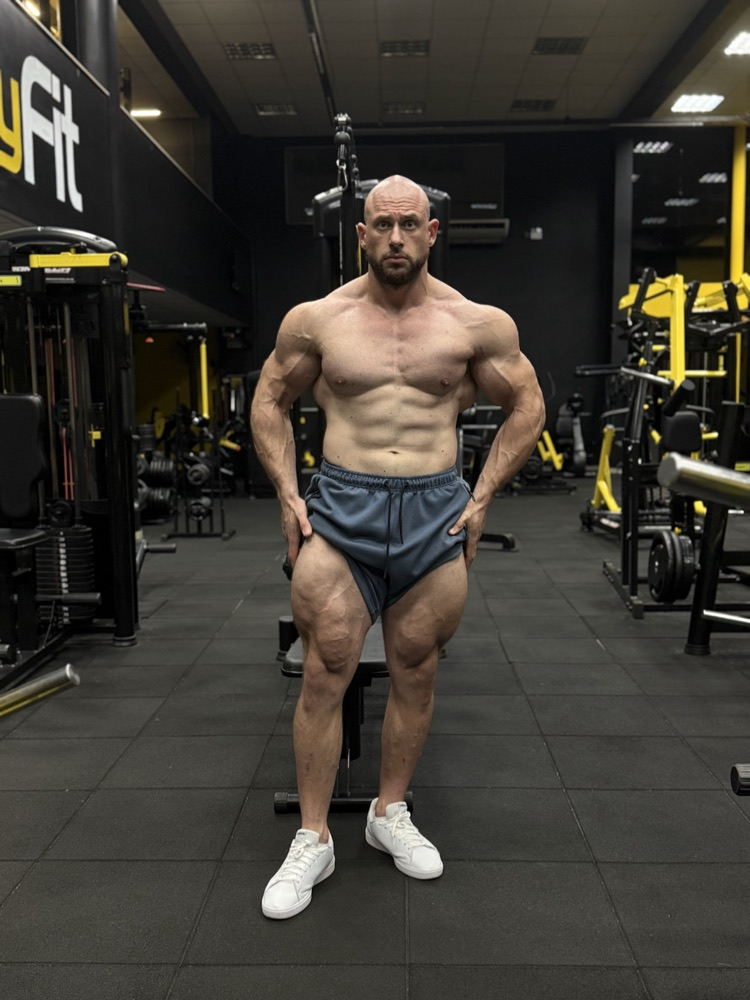
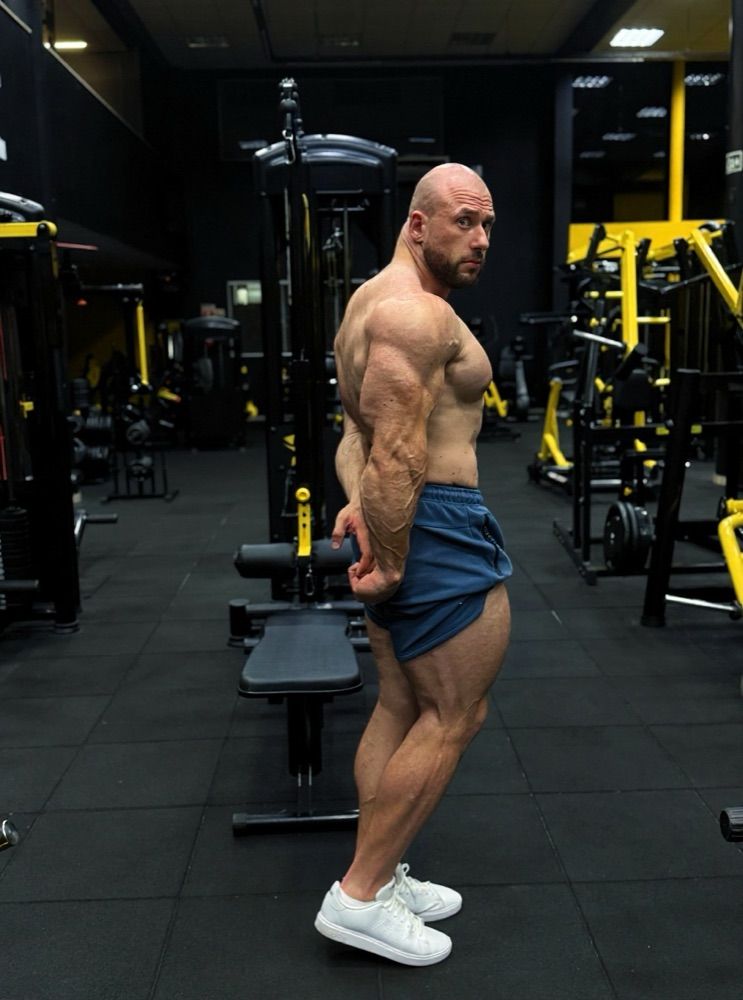
Hero: foto trocada pela pose de tríceps (escolha do GH) e empurrada pro canto
GH estava atrás da escrita 'GH' e pediu a foto da pose de tríceps (XLSQa em
alta). Caixa da foto estreitada pra 34% no canto direito: rosto livre do
título, fade pra esquerda, opacity .62.

SW v326 -> v327.

diff --git a/index.html b/index.html
@@ -68,13 +68,13 @@
      cantos com o fundo escuro e o texto fica por cima. Trocar a foto = substituir
      assets/gh-hero.jpg (mesmo nome) + bump do SW. */
   .app-header .gh-hero-foto {
-    position: absolute; top: 0; bottom: 0; right: 0; width: 62%;
+    position: absolute; top: 0; bottom: 0; right: 0; width: 34%;
     overflow: hidden; pointer-events: none;
-    background: url('assets/gh-hero.jpg') no-repeat center 22% / cover;
-    opacity: .60;
-    filter: brightness(1.22) contrast(1.04);
-    -webkit-mask-image: linear-gradient(90deg, transparent 0%, rgba(0,0,0,.85) 42%, #000 68%, rgba(0,0,0,.55) 100%);
-    mask-image: linear-gradient(90deg, transparent 0%, rgba(0,0,0,.85) 42%, #000 68%, rgba(0,0,0,.55) 100%);
+    background: url('assets/gh-hero.jpg') no-repeat center 12% / cover;
+    opacity: .62;
+    filter: brightness(1.18) contrast(1.04);
+    -webkit-mask-image: linear-gradient(90deg, transparent 0%, rgba(0,0,0,.9) 45%, #000 100%);
+    mask-image: linear-gradient(90deg, transparent 0%, rgba(0,0,0,.9) 45%, #000 100%);
   }
   .app-header > *:not(.gh-hero-foto) { position: relative; z-index: 1; }
   .app-header .brand-name {

diff --git a/sw.js b/sw.js
@@ -1,4 +1,4 @@
-const CACHE_NAME = 'metodo-gh-v326';
+const CACHE_NAME = 'metodo-gh-v327';
 const ASSETS = [
   './',
   './index.html',
